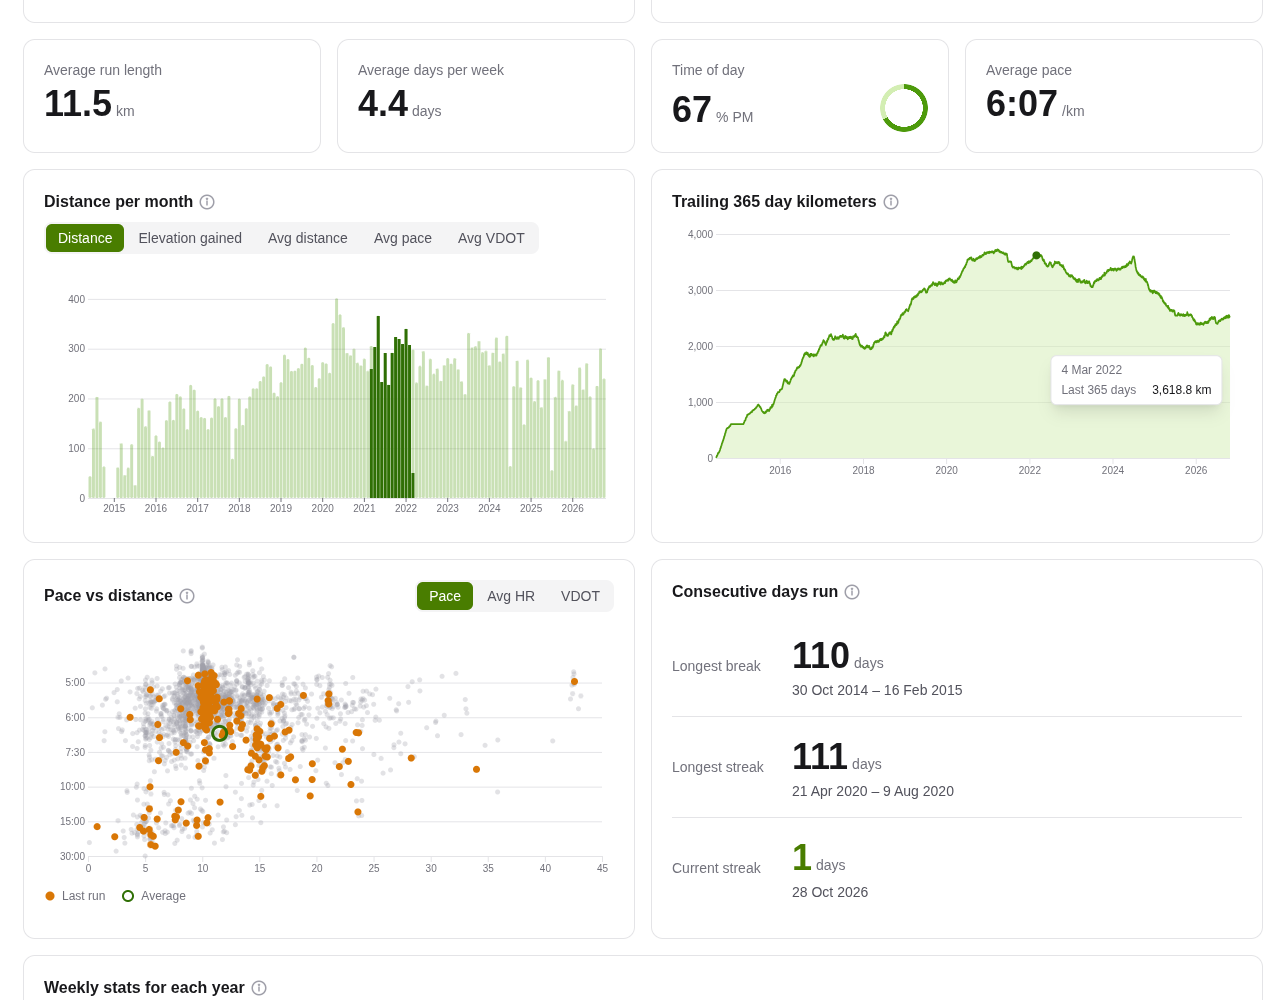
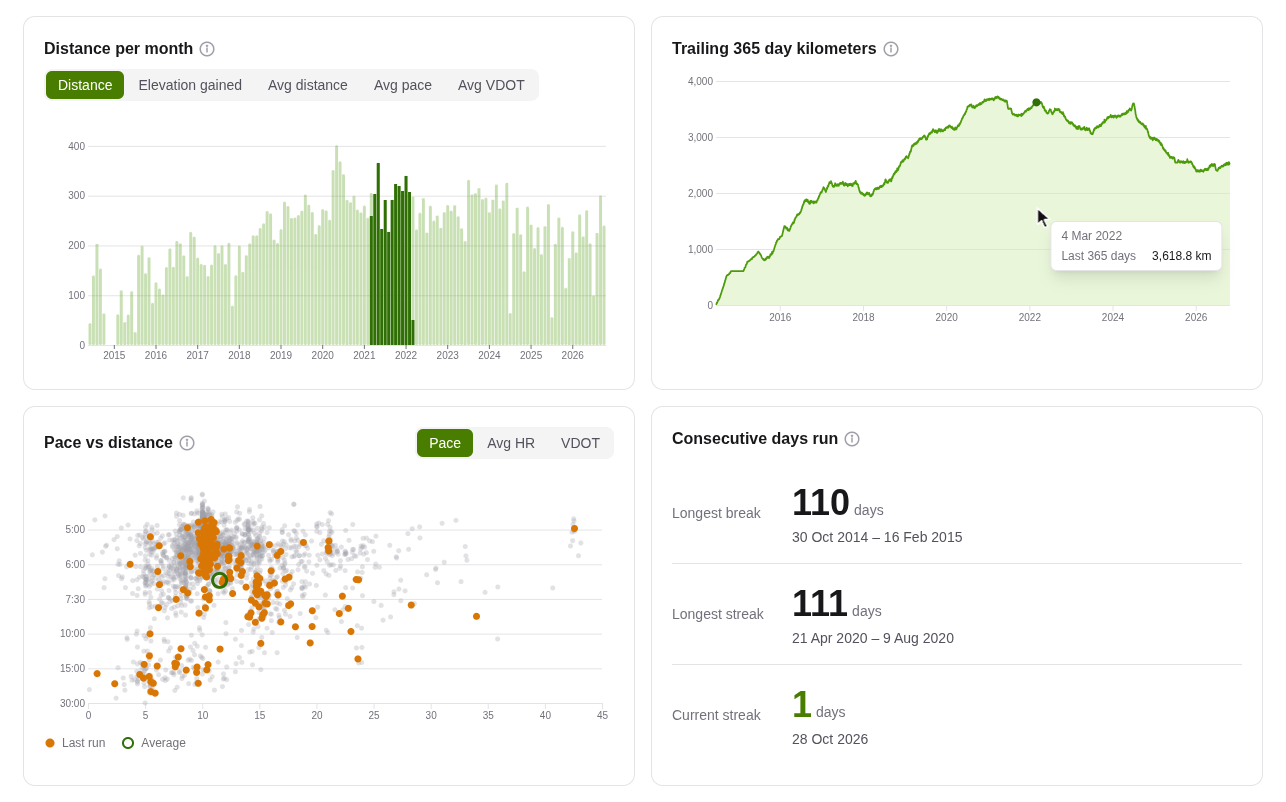
Show the hover interactions on the landing page as looping clips
The "Interactive by design" section only had a still of the Overview's linked hover. Two looping animated WebPs, recorded frame by frame from the running app with a fake cursor, now show the Overview's linked hover and a run page's shared cursor under their bullets. Animated WebP plays like a GIF in an `<img>` but keeps full color at a fraction of the size, and a `<picture>` source gives reduced-motion visitors the stills; the Overview still is re-cropped to the chart grid to match.

diff --git a/site/index.html b/site/index.html
@@ -31,11 +31,22 @@
       <p class="lead">The charts are not pictures. Most of the value is in moving the pointer over them.</p>
       <ul class="points">
         <li><strong>Linked hover.</strong> On the Overview, pointing at a chart selects a set of runs and highlights the same runs in the other charts.</li>
+      </ul>
+      <picture class="demo">
+        <source srcset="screenshots/overview-hover.png" media="(prefers-reduced-motion: reduce)">
+        <img class="shot" src="screenshots/overview-hover.webp" width="1286" height="802" loading="lazy" alt="A looping animation of the Overview: pointing at the trailing 365 day line, then the distance bars, the pace scatter and a streak, highlights the matching runs in the other charts, as amber dots in the scatter and darker bars.">
+      </picture>
+      <ul class="points">
         <li><strong>One cursor.</strong> On a run, hovering one chart moves a cursor on all of them and a marker along the route map.</li>
+      </ul>
+      <picture class="demo">
+        <source srcset="screenshots/run-cursor.png" media="(prefers-reduced-motion: reduce)">
+        <img class="shot" src="screenshots/run-cursor.webp" width="1256" height="1052" loading="lazy" alt="A looping animation of a run page: sliding the pointer along the speed chart moves its cursor and a marker along the route on the map, with a tooltip for each stretch.">
+      </picture>
+      <ul class="points">
         <li><strong>Brushes.</strong> Drag a timeline to change the window, or drag across a chart to summarize a stretch.</li>
         <li><strong>Touch and keyboard.</strong> Charts scrub with a finger, and the ones with a cursor are a Tab stop with arrow keys.</li>
       </ul>
-      <img class="shot" src="screenshots/overview-hover.png" width="1286" height="1000" loading="lazy" alt="Hovering the trailing 365 day line on the Overview: the runs of the year before that day are highlighted in the distance bars and as amber dots in the pace scatter.">
     </section>
 
     <section class="wrap">

diff --git a/site/styles.css b/site/styles.css
@@ -113,6 +113,11 @@ main .wrap {
   object-position: top;
 }
 
+.demo {
+  display: block;
+  margin: 0 0 1.5rem;
+}
+
 .points {
   max-width: 44rem;
   margin: 0 0 1.5rem;

diff --git a/docs/PRD.md b/docs/PRD.md
@@ -580,8 +580,8 @@ The live sync refresh connected over Action Cable in all 5 runs.
 ## 13. Landing site
 
 - **Location:** `site/` in this repo, served at chartlek.com by Cloudflare Pages with no build command and output directory `site`. Pages serves only that directory, so the app is never exposed.
-- **Files:** `site/index.html`, `site/styles.css`, the favicon set `site/icon.svg`, `site/favicon.ico` and `site/apple-touch-icon.png` (copies of the files in `public/`) and `site/screenshots/*.png` (copies of `docs/screenshots/`).
+- **Files:** `site/index.html`, `site/styles.css`, the favicon set `site/icon.svg`, `site/favicon.ico` and `site/apple-touch-icon.png` (copies of the files in `public/`) and `site/screenshots/*.png` and `*.webp` (copies of `docs/screenshots/`).
 - **Constraints:** no JS, no framework, no build step, no analytics (§10), no external fonts or CDNs. Zinc neutrals with a lime accent, light and dark through `prefers-color-scheme`, system fonts, a single column on mobile.
-- **Sections:** hero with the Overview screenshot and a GitHub button; interactive by design; a feature grid (Overview, Run page, Pro Map, Pace Trends and PR Progress as the Performance tabs, Wellness, Training Bands, Gear, Goals set from the Overview), where the Overview card shows the theme opposite to the hero's; your data stays yours; get started (requirements, `cp .env.example .env` plus `docker compose up -d`, a link to the README's "Run it yourself"); footer (GitHub, MIT license).
+- **Sections:** hero with the Overview screenshot and a GitHub button; interactive by design (two looping animated WebPs, the Overview's linked hover and a run page's shared cursor, each in a `<picture>` whose `prefers-reduced-motion: reduce` source is a still PNG, so no JS is needed); a feature grid (Overview, Run page, Pro Map, Pace Trends and PR Progress as the Performance tabs, Wellness, Training Bands, Gear, Goals set from the Overview), where the Overview card shows the theme opposite to the hero's; your data stays yours; get started (requirements, `cp .env.example .env` plus `docker compose up -d`, a link to the README's "Run it yourself"); footer (GitHub, MIT license).
 - **Copy** is condensed from the README and adds no features.
 - **Licence and hosting:** MIT (`LICENSE`). There is no hosted version; the README's "Run it yourself" says everyone runs it on their own machine at their own risk and that it has no authentication.

diff --git a/AGENTS.md b/AGENTS.md
@@ -231,7 +231,7 @@ Smashrun supplies only the years before Garmin; Garmin-era runs are ignored.
 
 - `site/` is the static landing page for chartlek.com: `index.html`, `styles.css`, the favicon set (`icon.svg`, `favicon.ico`, `apple-touch-icon.png`) and `screenshots/`. Cloudflare Pages serves it with no build command and output directory `site`, so the app is never exposed.
 - No JS, no framework, no build step, no analytics, no external fonts or CDNs. Light and dark follow `prefers-color-scheme`.
-- `site/screenshots/` is a copy of `docs/screenshots/` (Pages can't reach `docs/`): retake the shots in `docs/screenshots/` and copy them over when the UI changes. The favicon set is copied from `public/` (the same files the app serves).
+- `site/screenshots/` is a copy of `docs/screenshots/` (Pages can't reach `docs/`): retake the shots in `docs/screenshots/` and copy them over when the UI changes. The two animations there (`overview-hover.webp`, `run-cursor.webp`, with the stills `overview-hover.png` and `run-cursor.png` for reduced motion) are retaken the same way: recorded frame by frame from the running app with a fake cursor (headless screenshots draw none), mouse moves dispatched along an eased path, and encoded lossless with `ffmpeg -c:v libwebp_anim -lossless 1 -quality 100 -loop 0` (smaller than lossy for flat chart colors). The favicon set is copied from `public/` (the same files the app serves).
 - Copy is condensed from the README; update the page when the README's features change.
 
 ## Coding style guidelines
